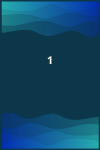
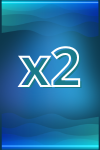
carta x2 e pane carta imprevisto

diff --git a/src/main/java/gioco/progettospacca/controller/PartitaController.java b/src/main/java/gioco/progettospacca/controller/PartitaController.java
@@ -34,7 +34,7 @@ import java.util.*;
 import static gioco.progettospacca.controller.Main.*;
 
 public class PartitaController implements Initializable {
-    public static final int CODICE_TEMP = 37654;
+    public static final int CODICE_TEMP = 63312;
     @FXML
     Label lbl_vincitorePartitaTorneo;
     @FXML
@@ -223,6 +223,7 @@ public class PartitaController implements Initializable {
                 int finalI = i;
                 pauseImprevisto.setOnFinished(event -> {
                     pane_imprevisto.setVisible(true);
+                    pane_imprevisto.toFront();
                     lbl_imprevisto.setText("tutti i punti saranno raddoppiati per questo turno");
                     cambiaSingolaCarta(finalI+1);
                     btn_stai.setDisable(true);
